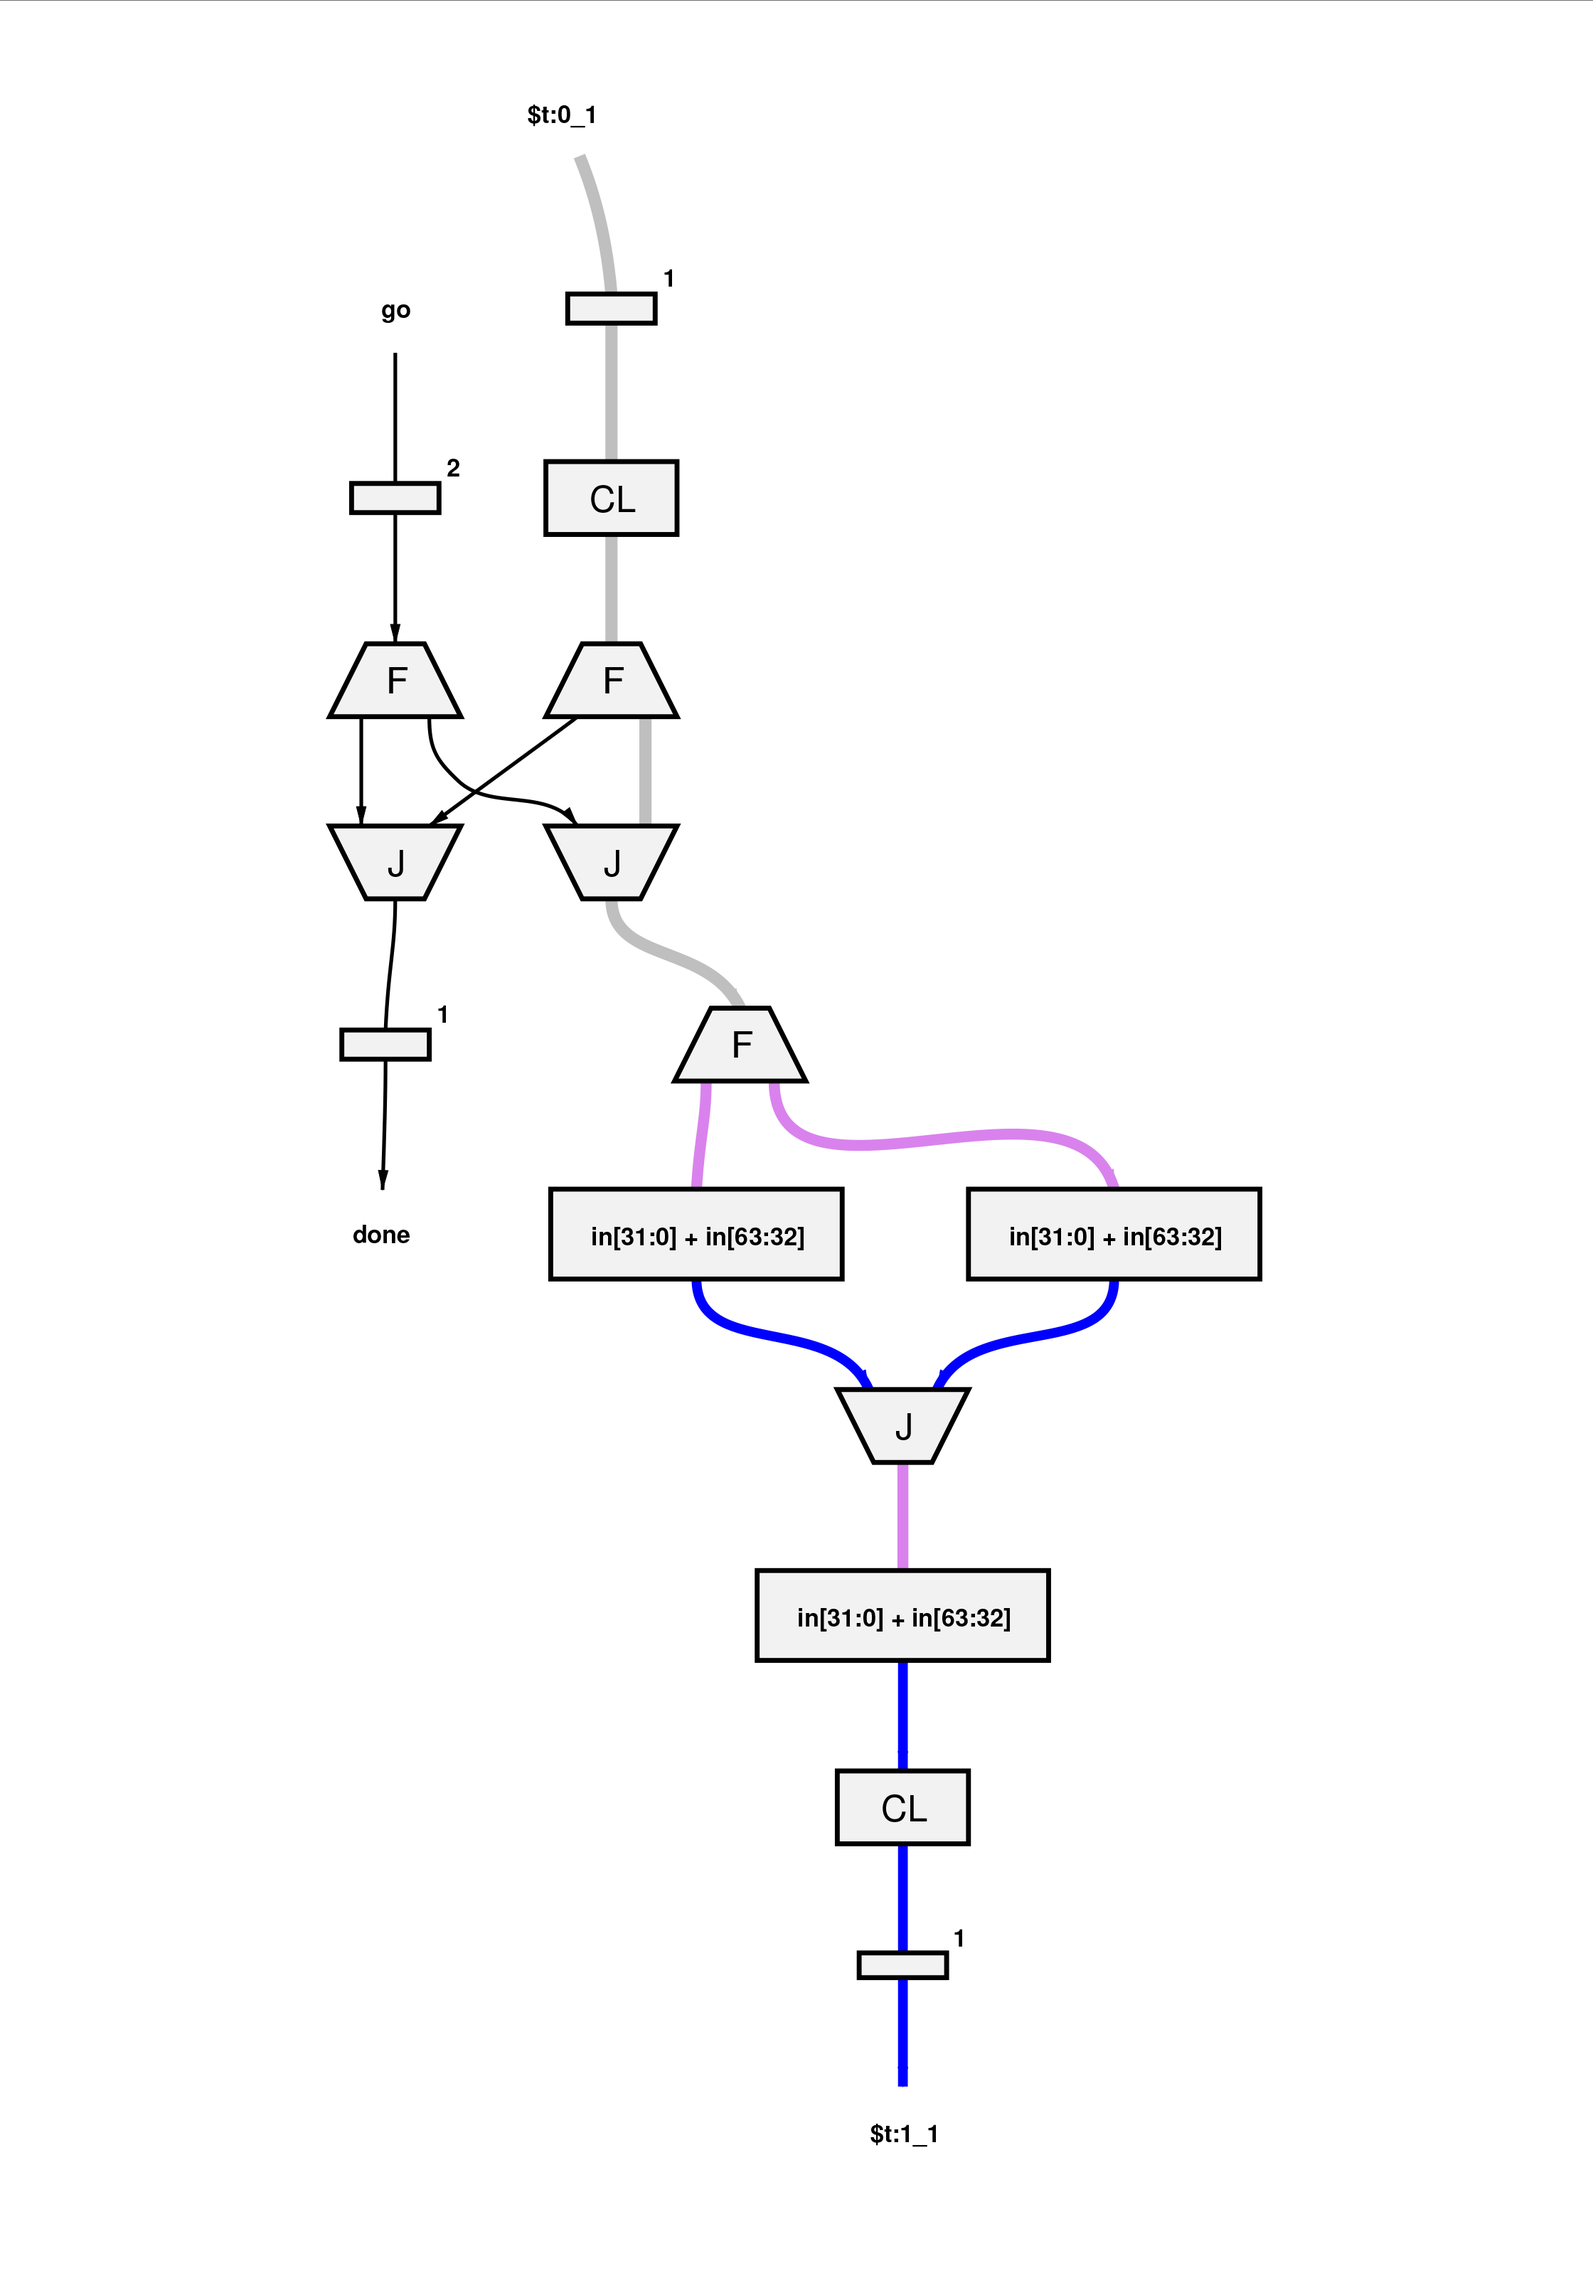
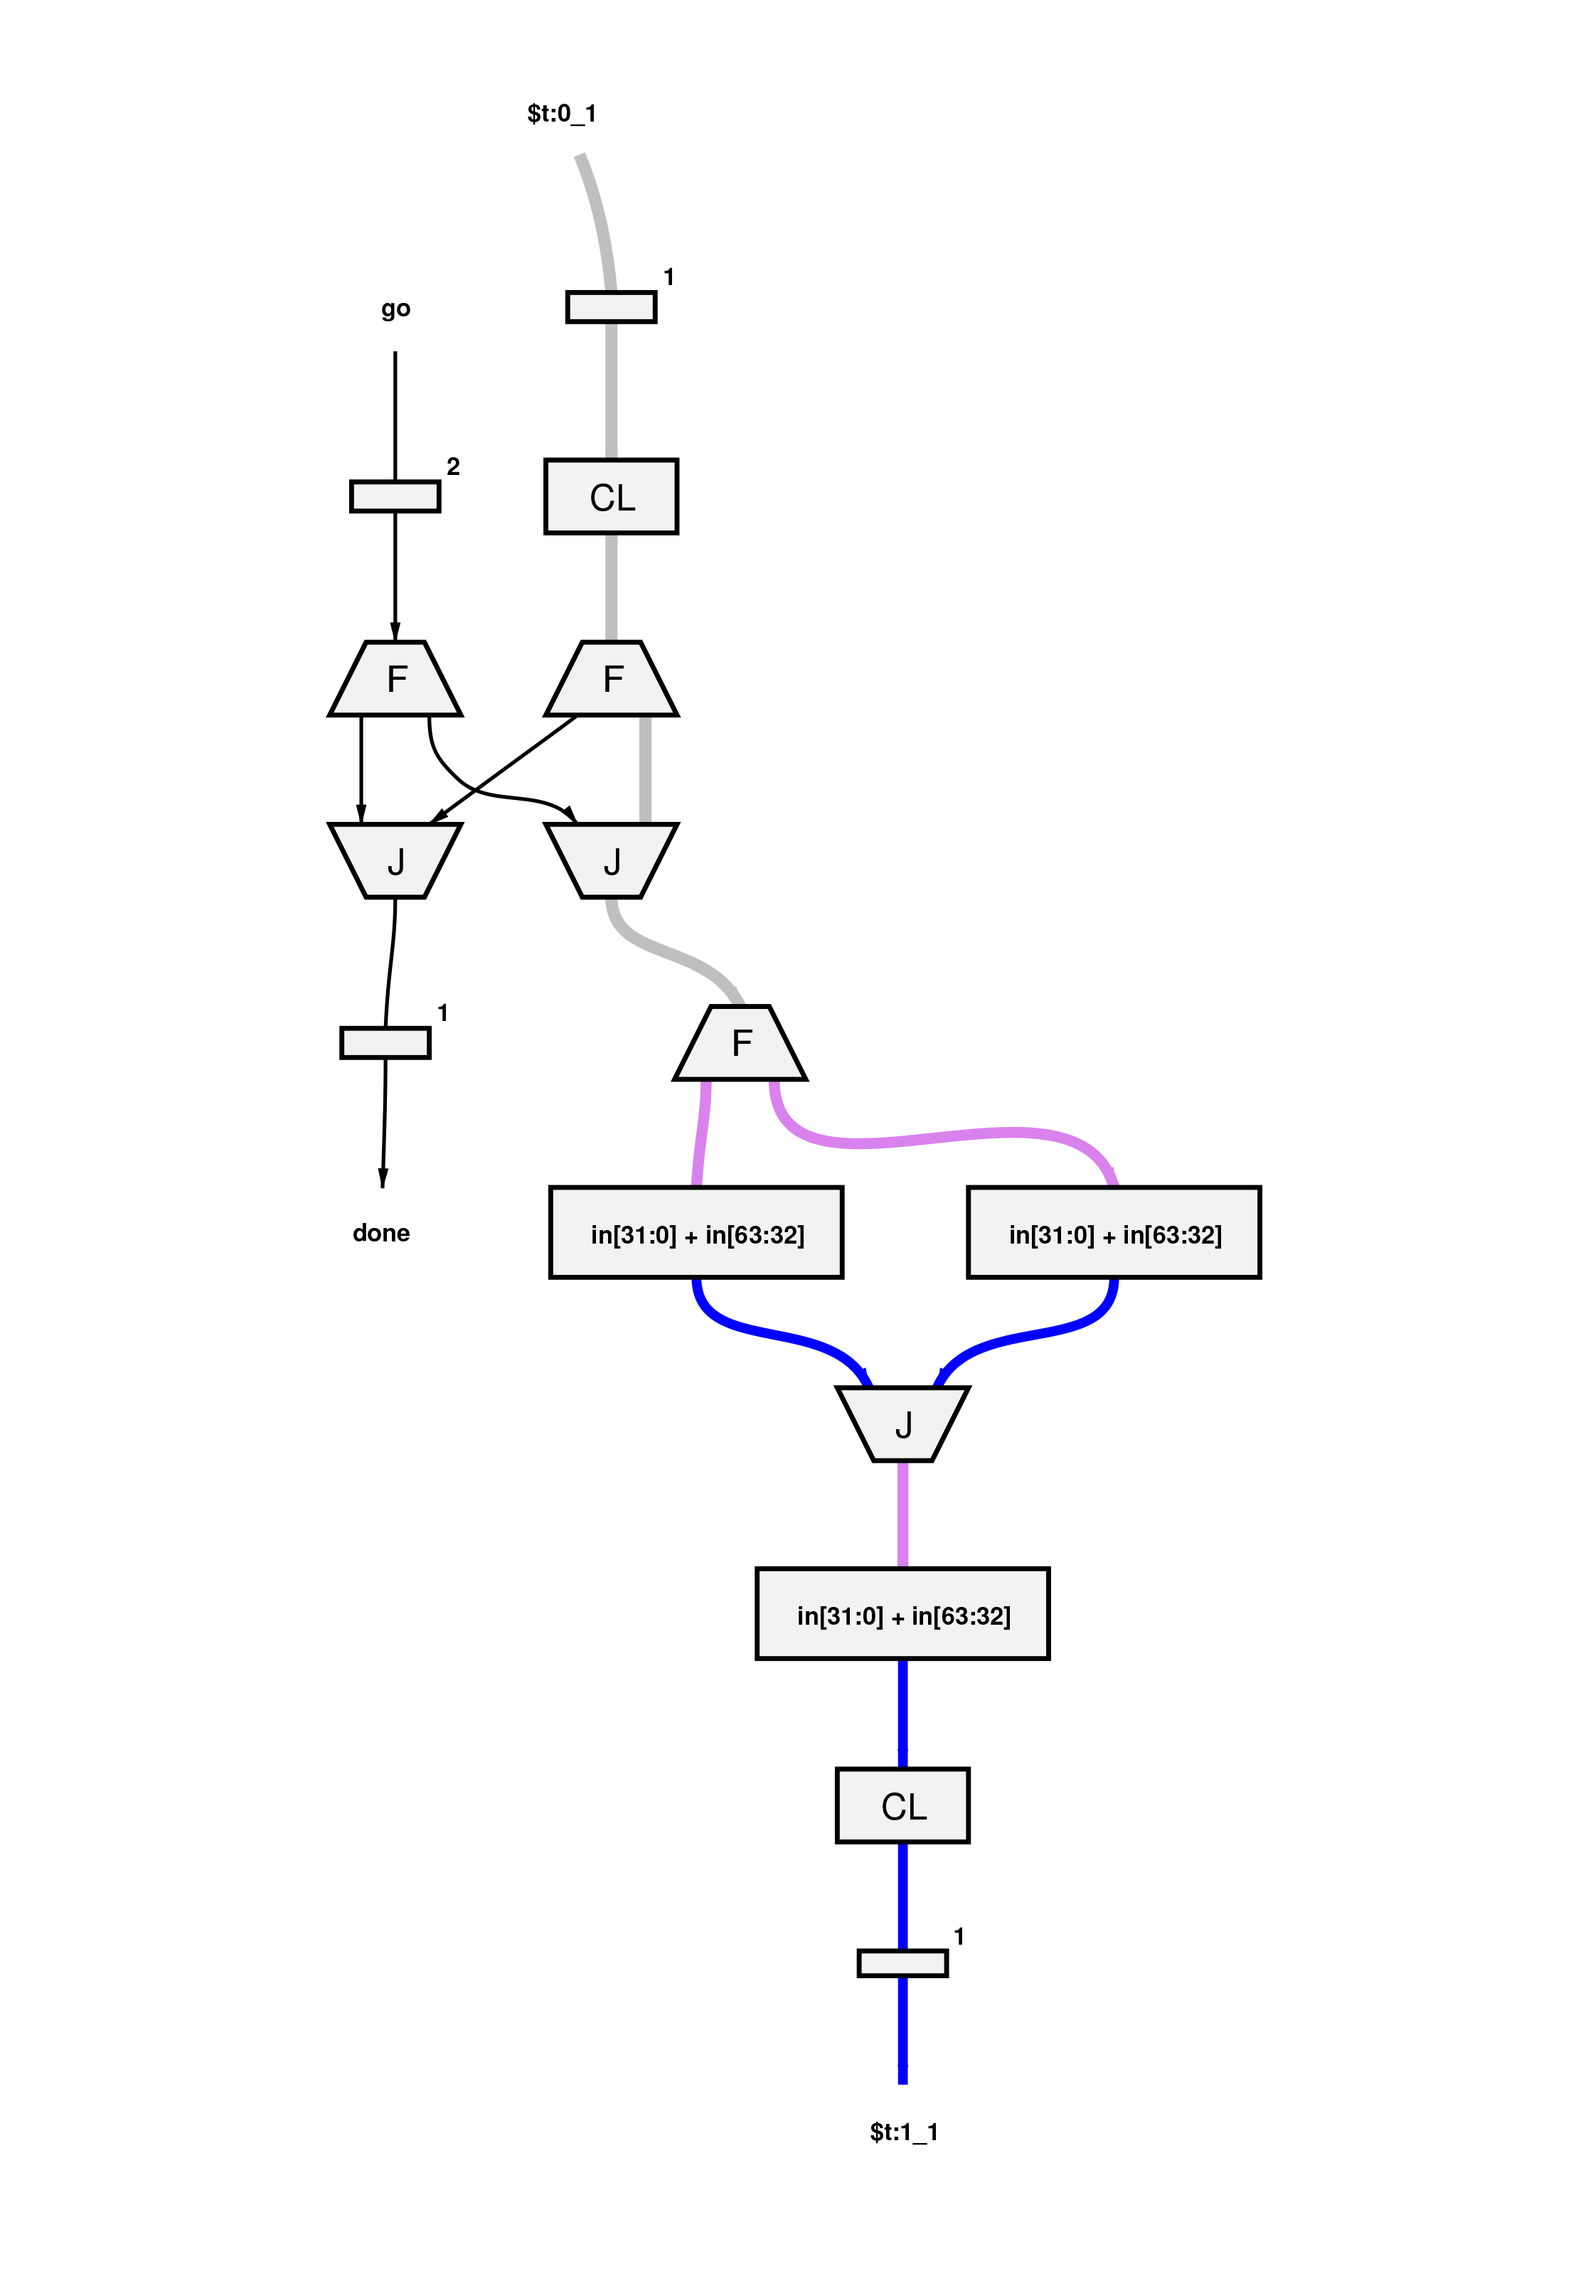
replace graph and change to figures with captions

Changed region(s): [[0.5938, 0.6858, 0.625, 0.717], [0.375, 0.1247, 0.4062, 0.1559]]

diff --git a/docs/source/style_guide.rst b/docs/source/style_guide.rst
@@ -70,10 +70,9 @@ The compiler performs dependency analysis, and will parallelize statements that 
 
 Unroll loops
 ^^^^^^^^^^^^
-For small, often used inner loops, it's best to unroll them to ensure parallel processing. In the below example, the loop version will take an order of magnitude longer to run than the unrolled version.
+For small, often used inner loops, it's best to unroll them to ensure parallel processing. In the below example, the loop version will take an order of magnitude longer to run than the unrolled version. You can see from the graphs that the loop is a much more complex process than the unrolled version.
 
 .. code-block:: Go
-    :width: 45%
 
    func Add4Loop(a [4]int) int {
       sum := 0
@@ -83,7 +82,9 @@ For small, often used inner loops, it's best to unroll them to ensure parallel p
       return sum
    }
 
-|loop|
+.. figure:: images/add4loop.png
+
+    Graph of Add4Loop function
 
 .. code-block:: Go
 
@@ -91,11 +92,10 @@ For small, often used inner loops, it's best to unroll them to ensure parallel p
       return (a[0] + a[1]) + (a[2] + a[3])
    }
 
-It's clearer what's going on here if we look at the graphs of the functions, first the loop:
+.. figure:: Add4Unrolled.png
 
-.. todo::
-    insert complex graph of loop
-
+    Graph of Add4Unrolled function
+    
 Pipelining
 ^^^^^^^^^^
 In most cases goroutines that process data from an input channel and write the result to an output channel within an infinite loop will transform to a pipeline.
@@ -130,6 +130,3 @@ The main limitations for this feature are:
 .. |host| raw:: html
 
    <a href="http://godoc.reconfigure.io/v0.15.0/host/pkg" target="_blank">Host CPU docs</a>
-
-.. |loop| image:: images/Add4Loop.png
-           :width: 60%
